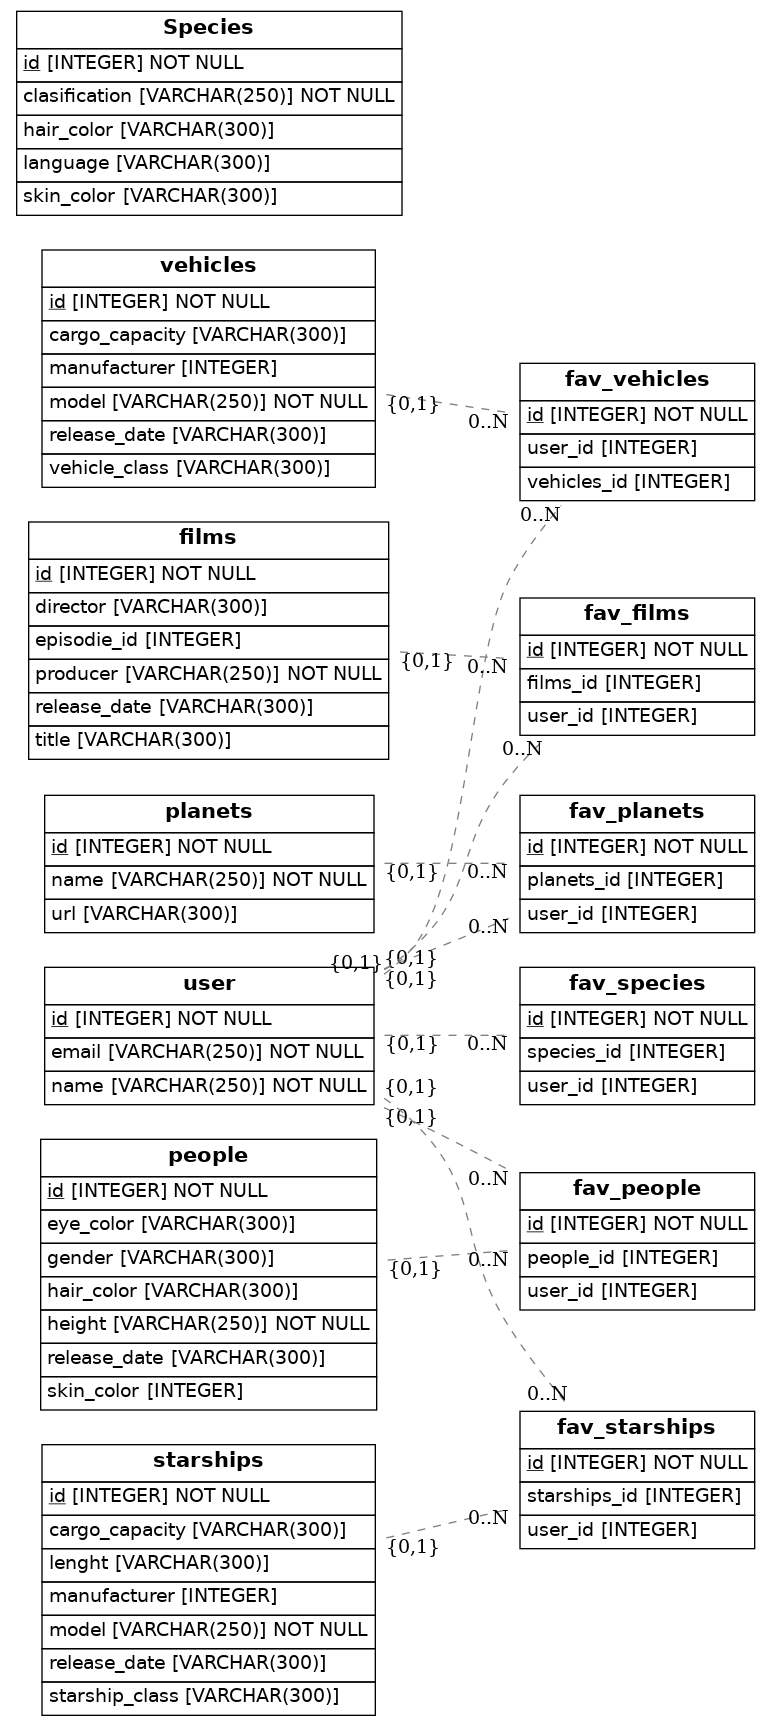
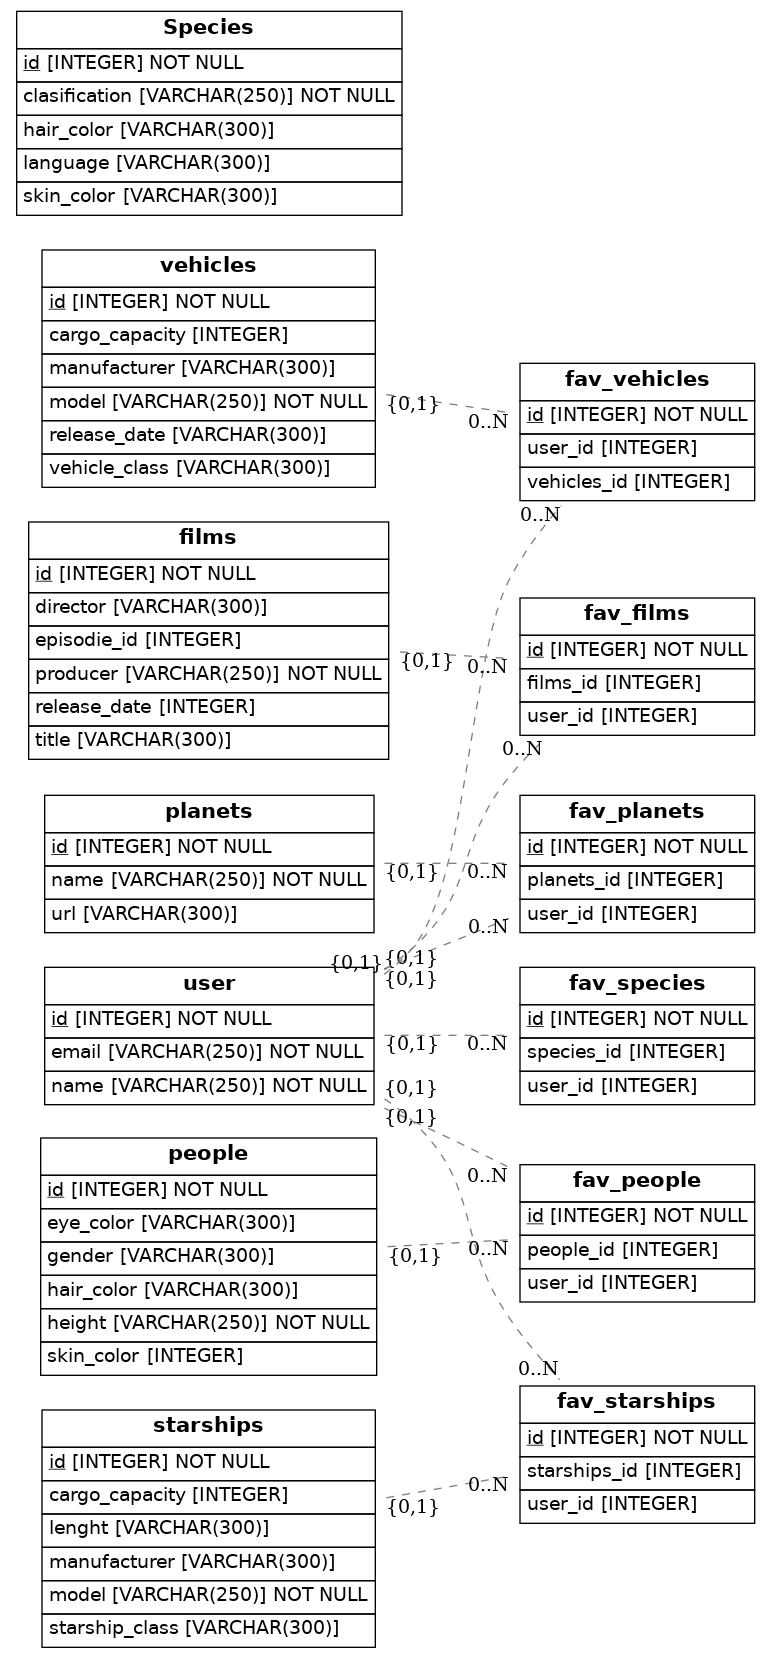
last commit

diff --git a/src/models.py b/src/models.py
@@ -14,7 +14,11 @@ class User(Base):
     name = Column(String(250), nullable=False)
     email = Column(String(250), nullable=False)
     fav_planets = relationship('Fav_planets', backref='user', lazy=True)
-    fav_characters = relationship('Fav_planets', backref='user', lazy=True)
+    fav_characters = relationship('Fav_characters', backref='user', lazy=True)
+    fav_films = relationship('Fav_films', backref='user', lazy=True)
+    fav_vehicles = relationship('Fav_vehicles', backref='user', lazy=True)
+    fav_species = relationship('Fav_species', backref='user', lazy=True)
+    fav_starships = relationship('Fav_starships', backref='user', lazy=True)
 
 class Planets(Base):
     __tablename__ = 'planets'
@@ -32,7 +36,7 @@ class Films(Base):
     title = Column(String(300))
     episodie_id = Column(Integer)
     director = Column(String(300))
-    release_date = Column(String(300))
+    release_date = Column(Integer)
     fav_films = relationship('Fav_films', backref='user', lazy=True)
 
 class Vehicles(Base):
@@ -40,8 +44,8 @@ class Vehicles(Base):
     id = Column(Integer, primary_key=True)
     model = Column(String(250), nullable=False)
     vehicle_class = Column(String(300))
-    manufacturer = Column(Integer)
-    cargo_capacity = Column(String(300))
+    manufacturer = Column(String(300))
+    cargo_capacity = Column(Integer)
     release_date = Column(String(300))
     fav_vehicles = relationship('Fav_vehicles', backref='user', lazy=True)
 
@@ -53,7 +57,6 @@ class People(Base):
     skin_color = Column(Integer)
     eye_color = Column(String(300))
     gender = Column(String(300))
-    release_date = Column(String(300))
     fav_people = relationship('Fav_people', backref='user', lazy=True)
 
 class Starships(Base):
@@ -61,10 +64,9 @@ class Starships(Base):
     id = Column(Integer, primary_key=True)
     model = Column(String(250), nullable=False)
     starship_class = Column(String(300))
-    manufacturer = Column(Integer)
+    manufacturer = Column(String(300))
     lenght = Column(String(300))
-    cargo_capacity = Column(String(300))
-    release_date = Column(String(300))
+    cargo_capacity = Column(Integer)
     fav_starships = relationship('Fav_starships', backref='user', lazy=True)
 
 class Species(Base):
